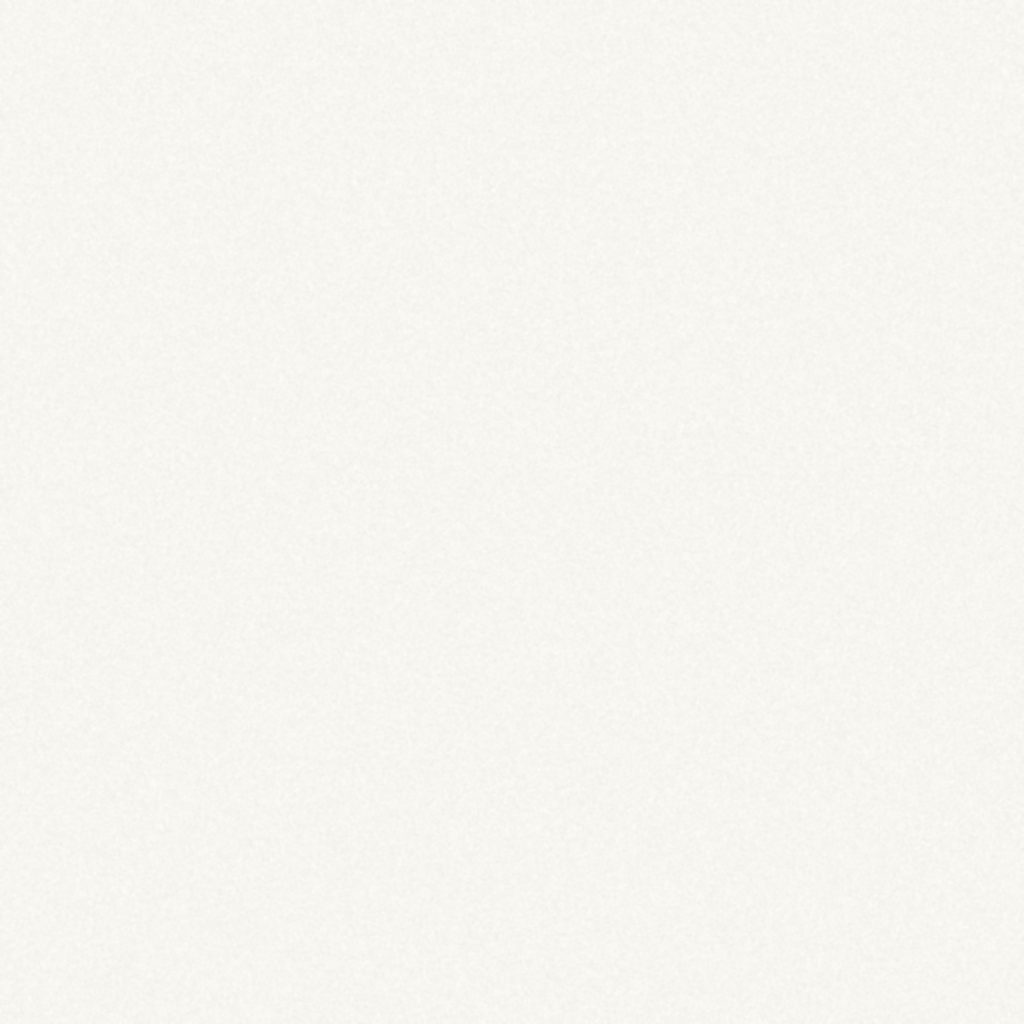
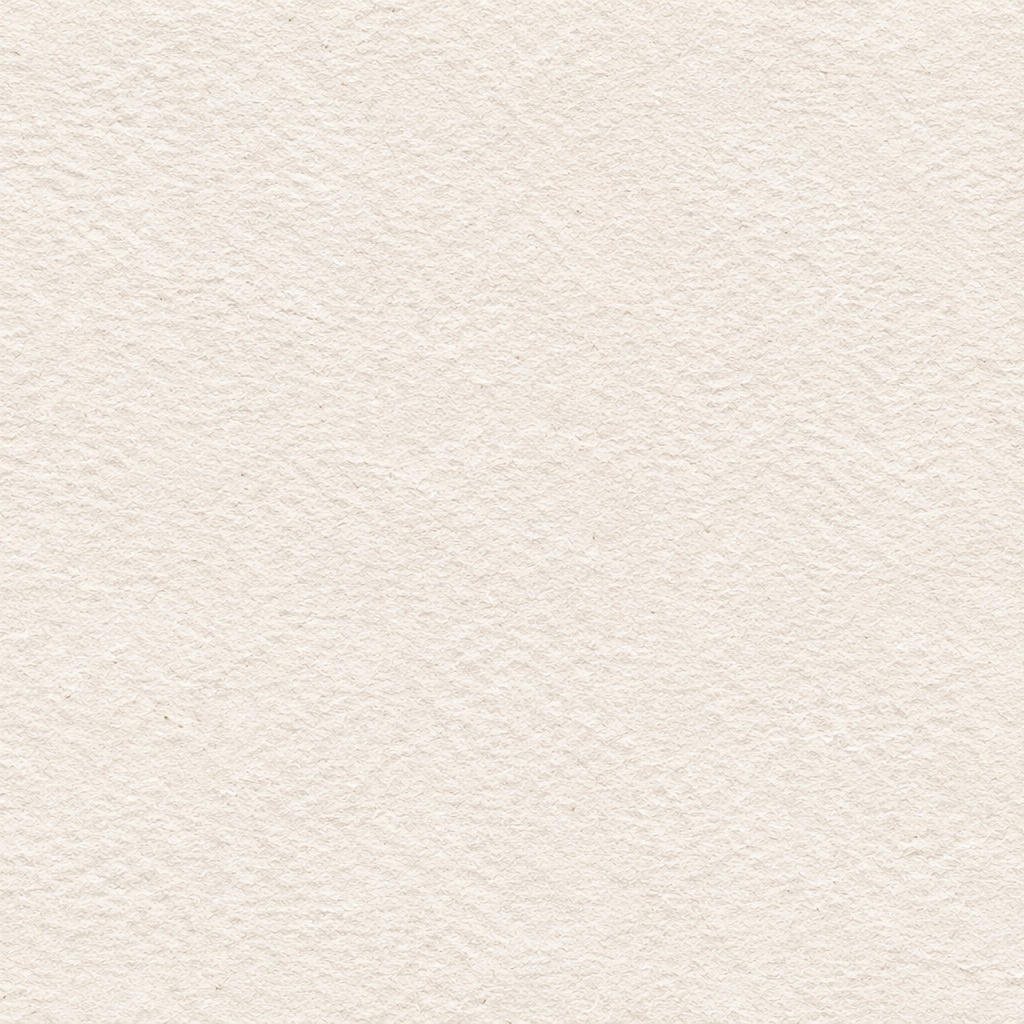
feat: textura de papel via .paper-surface e credito DOCFLEX no rodape
- Substitui a div .texture-paper pelo pseudo-elemento .paper-surface (opacidade 50% no claro, 6% no escuro)
- Aplica a textura ao main do menu e ao empty state
- Ajusta fundo do sticky de categorias no mobile
- Adiciona credito 'Desenvolvido por DOCFLEX ANGOLA' nos rodapes (pt/en)

Changed region(s): [[0.0, 0.0, 1.0, 1.0]]

diff --git a/src/components/menu/menu-experience.tsx b/src/components/menu/menu-experience.tsx
@@ -269,21 +269,17 @@ export function MenuExperience({
 
   return (
     <div className="relative flex min-h-[100vh] flex-col">
-      <div
-        aria-hidden="true"
-        className="texture-paper pointer-events-none absolute inset-0 opacity-[0.04]"
-      />
-
       <div className="relative flex flex-1 flex-col">
-        {showClosedBand && openState ? (
-          <div className="border-b border-sand-line bg-sand/60">
-            <p className="mx-auto w-full max-w-[1100px] px-4 py-2 text-center text-xs text-ink-2 sm:px-6">
-              {openState.label}
-            </p>
-          </div>
-        ) : null}
+        <div className="paper-surface flex flex-1 flex-col">
+          {showClosedBand && openState ? (
+            <div className="border-b border-sand-line bg-sand/60">
+              <p className="mx-auto w-full max-w-[1100px] px-4 py-2 text-center text-xs text-ink-2 sm:px-6">
+                {openState.label}
+              </p>
+            </div>
+          ) : null}
 
-        <div className="mx-auto flex w-full max-w-[1100px] flex-1 items-start gap-10 px-4 sm:px-6">
+          <div className="mx-auto flex w-full max-w-[1100px] flex-1 items-start gap-10 px-4 sm:px-6">
           <aside className="sticky top-[57px] hidden max-h-[calc(100vh-57px)] w-[220px] shrink-0 overflow-y-auto py-6 lg:block">
             <nav aria-label={t('nav_categories')}>
               {groups.map((group) => (
@@ -341,7 +337,7 @@ export function MenuExperience({
           <main className="min-w-0 flex-1 pb-16">
             <h1 className="sr-only">{t('menu_h1')}</h1>
 
-            <div className="sticky top-[57px] z-20 -mx-4 border-b border-line bg-ivory/95 px-4 backdrop-blur-md sm:-mx-6 sm:px-6 lg:hidden">
+            <div className="sticky top-[57px] z-20 -mx-4 border-b border-line bg-ivory/85 px-4 backdrop-blur-md sm:-mx-6 sm:px-6 lg:hidden">
               <GroupTabs
                 groups={groups}
                 activeSlug={activeGroup.slug}
@@ -465,6 +461,7 @@ export function MenuExperience({
             </section>
           </main>
         </div>
+        </div>
 
         <footer className="border-t border-line">
           <div className="mx-auto flex w-full max-w-[1100px] flex-col gap-1 px-4 py-6 text-xs text-ink-2 sm:flex-row sm:items-center sm:justify-between sm:px-6">
@@ -472,6 +469,12 @@ export function MenuExperience({
             <div className="flex items-center gap-3">
               <p>{t('footer_location')}</p>
               <span aria-hidden="true" className="h-3 w-px bg-line" />
+              <p>
+                {t('footer_credit_prefix')}{' '}
+                <a href="https://docflex-site.vercel.app" target="_blank" rel="noopener noreferrer" className="font-medium transition-colors hover:text-strong">
+                  DOCFLEX ANGOLA
+                </a>
+              </p>
               <Link
                 href="/admin"
                 className="inline-flex items-center gap-1 text-ink-2 transition-colors hover:text-strong"

diff --git a/src/app/page.tsx b/src/app/page.tsx
@@ -25,11 +25,6 @@ export default async function HomePage() {
   if (menu.status === 'ok' && totalProducts > 0) {
     return (
       <div className="relative flex min-h-dvh flex-col">
-        <div
-          aria-hidden="true"
-          className="texture-paper pointer-events-none absolute inset-0 opacity-[0.04]"
-        />
-
         <div className="relative flex flex-1 flex-col">
           <PublicHeader settings={menu.settings} />
           <HeroWelcome />
@@ -52,18 +47,15 @@ export default async function HomePage() {
 
   return (
     <div className="relative flex min-h-dvh flex-col">
-      <div
-        aria-hidden="true"
-        className="texture-paper pointer-events-none absolute inset-0 opacity-[0.04]"
-      />
-
       <div className="relative flex flex-1 flex-col">
         <PublicHeader />
         <HeroWelcome />
 
-        <main id="menu" className="mx-auto w-full max-w-[1100px] flex-1 px-4 pb-16 scroll-mt-[57px] sm:px-6">
-          <EmptyMenuState variant={menu.status === 'error' ? 'error' : 'preparing'} />
-        </main>
+        <div className="paper-surface flex-1">
+          <main id="menu" className="mx-auto w-full max-w-[1100px] flex-1 px-4 pb-16 scroll-mt-[57px] sm:px-6">
+            <EmptyMenuState variant={menu.status === 'error' ? 'error' : 'preparing'} />
+          </main>
+        </div>
 
         <footer className="border-t border-line">
           <div className="mx-auto flex w-full max-w-[1100px] flex-col gap-1 px-4 py-6 text-xs text-ink-2 sm:flex-row sm:items-center sm:justify-between sm:px-6">
@@ -71,6 +63,9 @@ export default async function HomePage() {
             <div className="flex items-center gap-3">
               <p>Benguela, Angola</p>
               <span aria-hidden="true" className="h-3 w-px bg-line" />
+              <p className="text-xs text-ink-2 mt-1">
+                Desenvolvido por <a href="https://docflex-site.vercel.app" target="_blank" rel="noopener noreferrer" className="font-medium transition-colors hover:text-strong">DOCFLEX ANGOLA</a>
+              </p>
               <Link
                 href="/admin"
                 className="inline-flex items-center gap-1 text-ink-2 transition-colors hover:text-strong"

diff --git a/src/app/globals.css b/src/app/globals.css
@@ -45,6 +45,18 @@
 }
 
 /* ---------------------------------------------------------------------------
+   Tokens da textura de papel — consumidos por .paper-surface
+   Opacidades: claro = 50%, escuro = 6%
+--------------------------------------------------------------------------- */
+:root {
+  --paper-opacity: 0.5;
+}
+
+[data-theme='dark'] {
+  --paper-opacity: 0.06;
+}
+
+/* ---------------------------------------------------------------------------
    Variáveis consumidas pelos componentes shadcn/ui.
 --------------------------------------------------------------------------- */
 :root {
@@ -257,13 +269,6 @@
 }
 
 @layer utilities {
-  /* Textura de papel a 4% — aplicar sobre o fundo marfim. */
-  .texture-paper {
-    background-image: url("/brand/06-textura-papel.jpg");
-    background-repeat: repeat;
-    background-size: 512px 512px;
-  }
-
   .no-scrollbar {
     -ms-overflow-style: none;
     scrollbar-width: none;
@@ -271,6 +276,26 @@
 
   .no-scrollbar::-webkit-scrollbar {
     display: none;
+  }
+
+  /* Base de papel: pseudo-elemento atrás do conteúdo, dentro de um
+     stacking context local para nunca ficar atrás do fundo do body. */
+  .paper-surface {
+    position: relative;
+    isolation: isolate;
+  }
+
+  .paper-surface::before {
+    content: "";
+    position: absolute;
+    inset: 0;
+    z-index: -1;
+    background-image: url("/brand/06-textura-papel.jpg?v=2");
+    background-repeat: repeat;
+    background-size: 512px 512px;
+    opacity: var(--paper-opacity);
+    pointer-events: none;
+    border-radius: inherit;
   }
 }
 

diff --git a/src/lib/i18n/dictionaries.ts b/src/lib/i18n/dictionaries.ts
@@ -72,6 +72,7 @@ export const dictionaries: Record<Locale, Record<string, string>> = {
     footer_rights: 'La Cabanne · Restaurante & Lounge',
     footer_location: 'Benguela, Angola',
     footer_admin: 'Área reservada',
+    footer_credit_prefix: 'Desenvolvido por',
     theme_light: 'Dia',
     theme_dark: 'Noite',
     theme_auto: 'Auto',
@@ -149,6 +150,7 @@ export const dictionaries: Record<Locale, Record<string, string>> = {
     footer_rights: 'La Cabanne · Restaurant & Lounge',
     footer_location: 'Benguela, Angola',
     footer_admin: 'Staff area',
+    footer_credit_prefix: 'Developed by',
     theme_light: 'Day',
     theme_dark: 'Night',
     theme_auto: 'Auto',

diff --git a/src/components/menu/feedback-dialog.tsx b/src/components/menu/feedback-dialog.tsx
@@ -40,7 +40,7 @@ export function FeedbackDialog({ open, onClose }: { open: boolean; onClose: () =
       />
       <div
         role="document"
-        className="relative z-10 w-full max-w-lg overflow-hidden rounded-2xl border border-line bg-surface shadow-xl"
+        className="paper-surface relative z-10 w-full max-w-lg overflow-hidden rounded-2xl border border-line bg-ivory shadow-xl"
       >
         <header className="flex items-start justify-between gap-4 border-b border-line px-6 py-4">
           <div>

diff --git a/src/components/menu/product-dialog.tsx b/src/components/menu/product-dialog.tsx
@@ -129,7 +129,7 @@ export function ProductDialog({
           )}
         </div>
 
-        <div className="p-5 sm:p-6 lg:p-8">
+        <div className="paper-surface bg-ivory p-5 sm:p-6 lg:p-8">
           <h2
             id={`product-title-${product.id}`}
             className="pr-10 font-display text-[34px] leading-[1.1] text-strong"

diff --git a/src/components/menu/info-dialog.tsx b/src/components/menu/info-dialog.tsx
@@ -112,7 +112,7 @@ export function InfoDialog({
           ) : null}
         </div>
 
-        <div className="px-6 py-5">
+        <div className="paper-surface bg-ivory px-6 py-5">
           <h2 id="info-title" className="sr-only">
             {t('info_title')} {settings.name}
           </h2>
